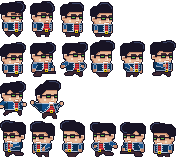
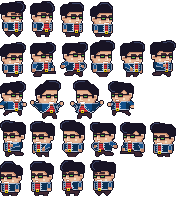
Collision fixed!

diff --git a/Player.cpp b/Player.cpp
@@ -2,6 +2,8 @@
 #include "Player.h"
 #include "Levels.h"
 #include <vector>
+#include <iostream>
+
 const float maxY = 2.5f;
 const float gravity = 30.0f;
 sf::IntRect textRect(0, 0, 30, 40);
@@ -113,31 +115,18 @@ void Player::update(float elapsedTime, int collision, std::vector<sf::RectangleS
         }
     }
     if (collision >= 0) {
-        if (pPosition.x <= plats[collision].getPosition().x && pPosition.y >= plats[collision].getPosition().y) {
-            pPosition.x = plats[collision].getPosition().x - 64;
-            pPosition.y = plats[collision].getPosition().y + 64;
+        if (pPosition.y > plats[collision].getGlobalBounds().top) {
+            //pPosition.y = plats[collision].getGlobalBounds().top + pSprite.getGlobalBounds().height;
+            pVelocity.y = 3.0f;
         }
-        else if (pPosition.x <= plats[collision].getPosition().x && pPosition.y <= plats[collision].getPosition().y - plats[collision].getGlobalBounds().height) {
-            pPosition.x = plats[collision].getPosition().x - 64;
-            pPosition.y = plats[collision].getPosition().y - plats[collision].getGlobalBounds().height - 64;
+        else {
+            pPosition.y =  plats[collision].getGlobalBounds().top - pSprite.getGlobalBounds().height;
+            pVelocity.y = 0;
+            canJump = true;
         }
-        else if (pPosition.x >= plats[collision].getPosition().x + plats[collision].getGlobalBounds().width && pPosition.y >= plats[collision].getPosition().y) {
-            pPosition.x = plats[collision].getPosition().x + plats[collision].getGlobalBounds().width + 64;
-            pPosition.y = plats[collision].getPosition().y + 64;
-        }
-        else if (pPosition.x >= plats[collision].getPosition().x + plats[collision].getGlobalBounds().width && pPosition.y <= plats[collision].getPosition().y - plats[collision].getGlobalBounds().height) {
-            pPosition.x = plats[collision].getPosition().x + plats[collision].getGlobalBounds().width + 64;
-            pPosition.y = plats[collision].getPosition().y - plats[collision].getGlobalBounds().height - 64;
-        }
-//        else if (pPosition.y >= plats[collision].getPosition().y) {
-//            pPosition.y = plats[collision].getPosition().y + 64;
-//        }
-//        else if (pPosition.y <= plats[collision].getPosition().y - plats[collision].getGlobalBounds().height) {
-//            pPosition.y = plats[collision].getPosition().y - plats[collision].getGlobalBounds().height - 64;
-//        }
 
-        pVelocity.y = 0;
-        canJump = true;
+
+
     }
     if (!pLeftPressed && !pRightPressed && !pJump && !canJump) {
         //pSprite.setTextureRect();

diff --git a/Engine.cpp b/Engine.cpp
@@ -19,27 +19,32 @@ Engine::Engine() {
     font.loadFromFile("VCR_OSD_MONO_1.001.ttf");//will need to create a font folder in project so non-windows users can see it
     levelText.setFont(font);
     livesText.setFont(font);
+    scoreText.setFont(font);
     finishText.setFont(font);
     endplatText.setFont(font);
     timeText.setFont(font);
 
     levelText.setString("Level 1");//need to increase level count when they reach the next level
     livesText.setString("Lives Remaining: 3");//need to update when player is hit by an enemy
+    scoreText.setString("Score: 0");
     finishText.setString("Level Complete!");
     endplatText.setString("FINISH");
 
     levelText.setCharacterSize(30);
     livesText.setCharacterSize(30);
+    scoreText.setCharacterSize(30);
     finishText.setCharacterSize(75);
     endplatText.setCharacterSize(25);
 
     levelText.setFillColor(sf::Color::White);
     livesText.setFillColor(sf::Color::White);
+    scoreText.setFillColor((sf::Color::White));
     finishText.setFillColor(sf::Color::White);
     endplatText.setFillColor(sf::Color(255, 162, 40));
 
     levelText.setPosition(20, 20);
     livesText.setPosition(20, 50);
+    scoreText.setPosition(20, 80);
     finishText.setPosition(900, 500);//temporary position, needs to be updated to be somewhat in the middle of the screen
     endplatText.setPosition(1705, 170);
 
@@ -132,6 +137,7 @@ void Engine::draw() {//draws everything to the screen, called every second in up
 
     window.draw(levelText);
     window.draw(livesText);
+    window.draw(scoreText);
     window.draw(endplatText);
 
     if(!open){

diff --git a/Animation.cpp b/Animation.cpp
@@ -18,7 +18,7 @@ std::vector<sf::IntRect> Animation::playerIdle() {
 
 std::vector<sf::IntRect> Animation::playerRun() {
     std::vector<sf::IntRect> vect;
-    sf::IntRect runSource(0, 40, 30, 40);
+    sf::IntRect runSource(0, 40, 26, 37);
     while (runSource.left <= 150) {
         vect.push_back(runSource);
         runSource.left += 30;

diff --git a/Engine.h b/Engine.h
@@ -17,6 +17,7 @@ private:
 
     sf::Text levelText;
     sf::Text livesText;
+    sf::Text scoreText;
     sf::Text finishText;
     sf::Text endplatText;
     sf::Text timeText;
